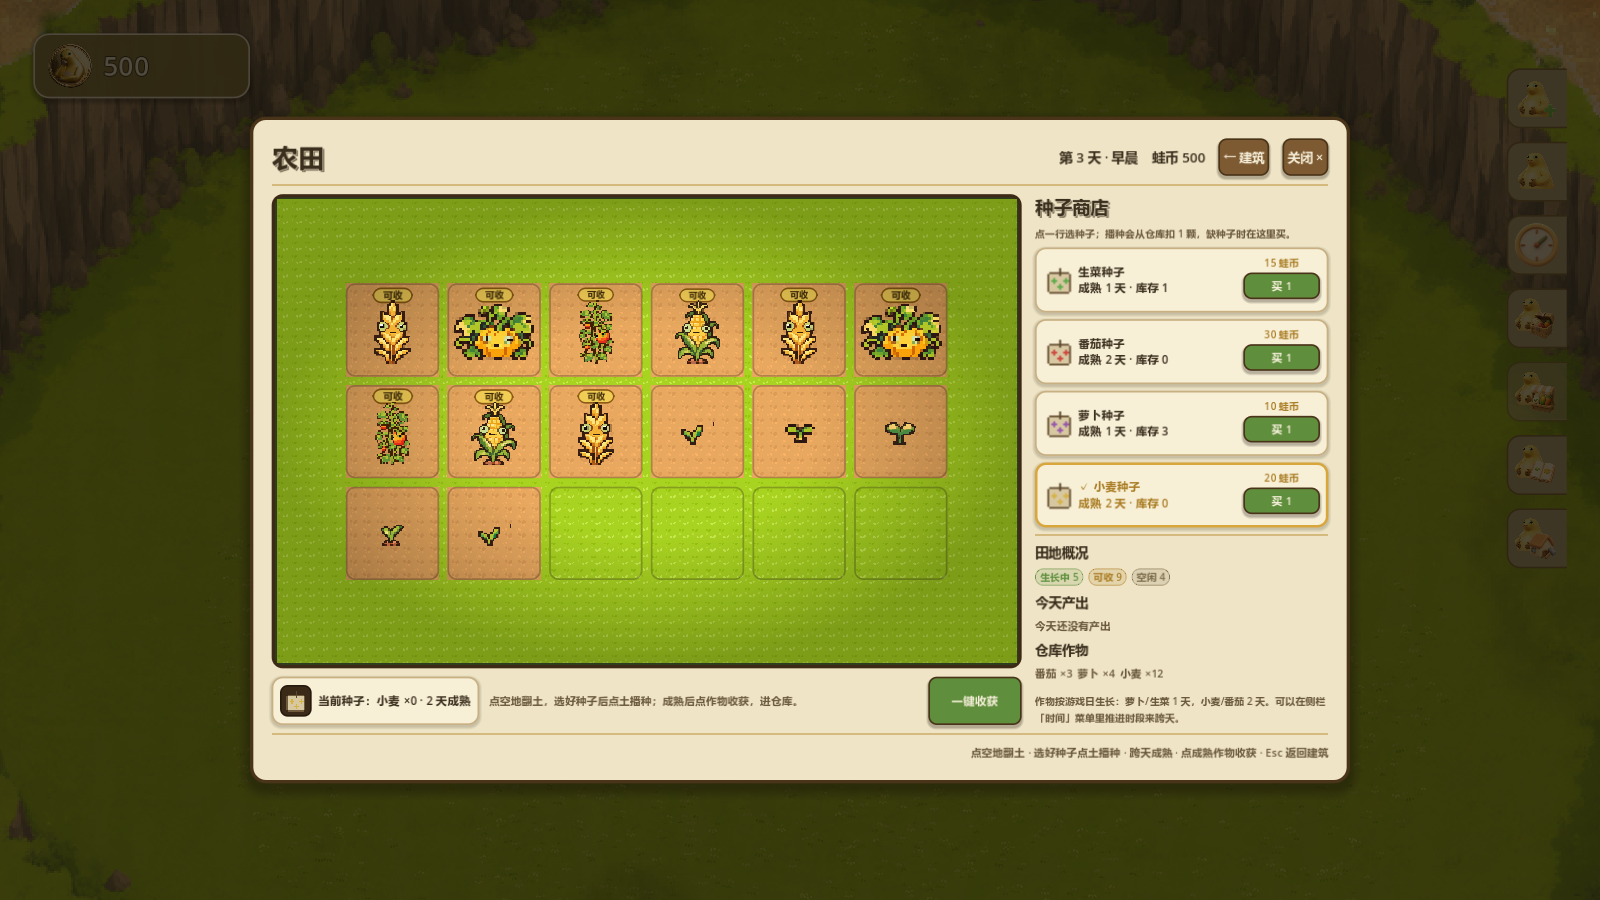
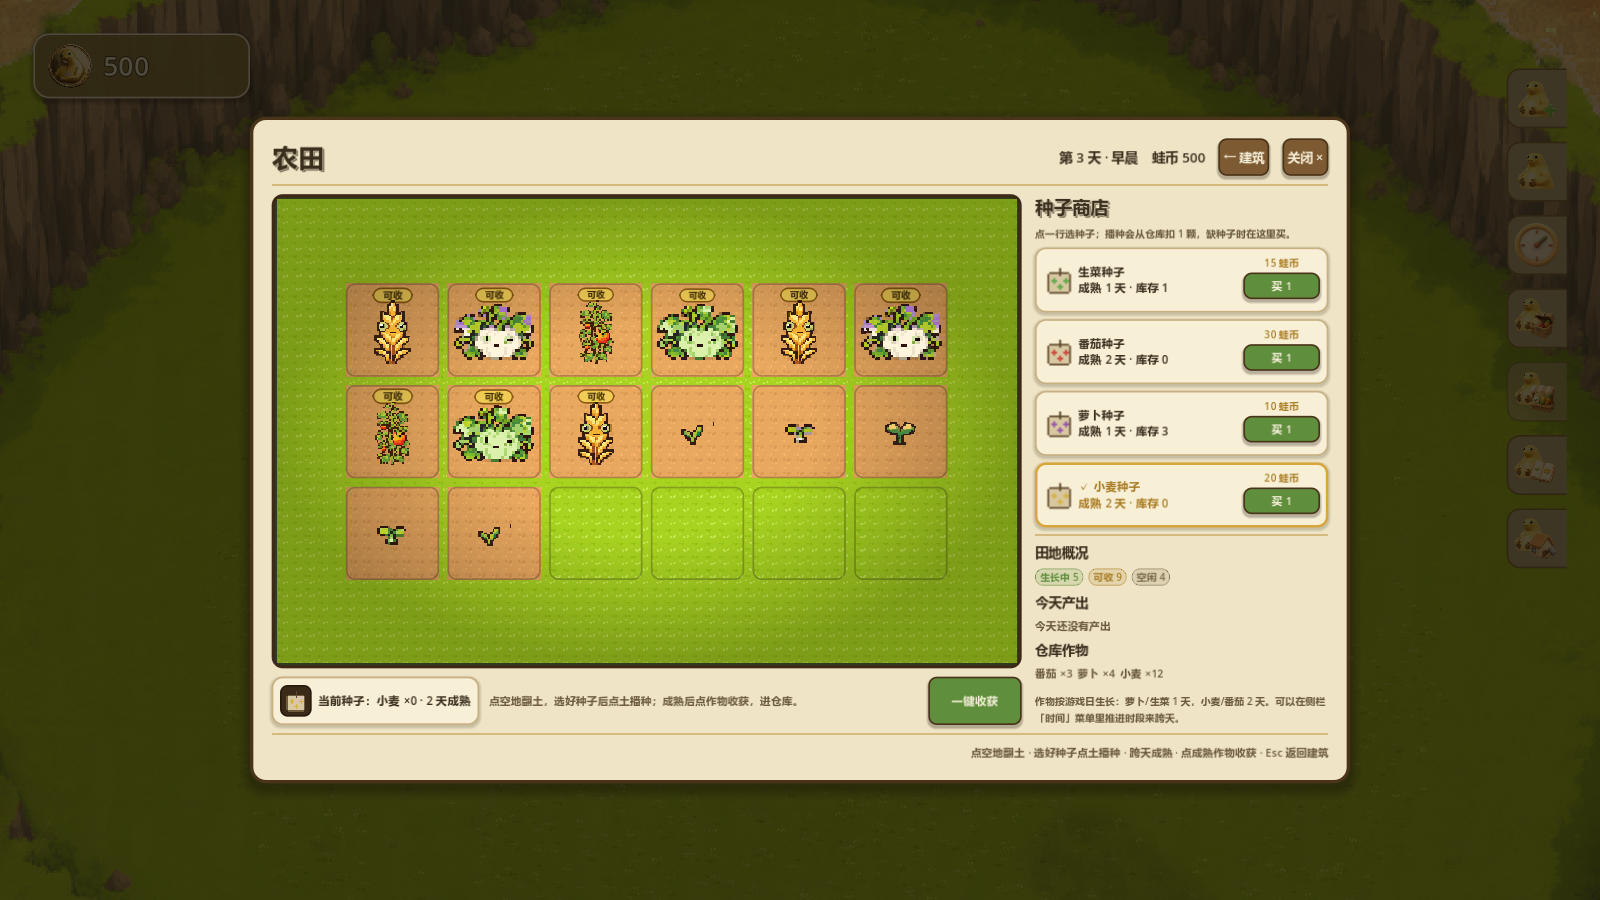
修正生菜/萝卜素材：不再拿玉米和南瓜植株冒充
项目原有 assets/plants 只有玉米、南瓜、番茄、小麦四种植株，之前生菜借用玉米、萝卜借用南瓜并靠 tint 区分，看起来仍然是玉米/南瓜。现以南瓜植株为基形重绘 4 帧新素材：生菜=浅绿菜心+宽叶（assets/plants/lettuce.png），萝卜=奶白根+紫顶（assets/plants/turnip.png），并同步重绘 64x64 物品图标 turnip.png/lettuce.png，data/crops 与 data/items 引用改为新素材、去掉 tint。素材来源与替换说明写入 docs/建筑系统-农田与鸡舍.md。

回归：buildings_smoke 64 项、drag_care_smoke 55 项、cooking_smoke 38 项全 PASS；Godot import 正常生成新 PNG 的 .import。农场页已重新截图核对四种作物外观。

diff --git a/docs/建筑系统-农田与鸡舍.md b/docs/建筑系统-农田与鸡舍.md
@@ -41,7 +41,11 @@
 - 未翻土地块只画很淡的格子描边，翻土后才铺土，避免"一整块深色底板把田分成九宫格"的塑料感。
 - 田地周围撒了草簇装饰、整体加暗角；界面按钮/卡片统一为暖纸色 + 深木描边的游戏 UI 样式。
 
-作物配置在 `data/crops/*.tres`（`CropData` 资源），加作物只加资源文件：
+作物配置在 `data/crops/*.tres`（`CropData` 资源），加作物只加资源文件。
+> 素材说明：项目原有 `assets/plants/` 只有玉米、南瓜、番茄、小麦四种植株。生菜和萝卜的植株
+> （`assets/plants/lettuce.png` / `turnip.png`，32×64×4 帧）是以南瓜植株为基形重绘配色得到的
+> （生菜=浅绿菜心+宽叶；萝卜=奶白根+紫顶），物品图标 `assets/icons/items/lettuce.png` / `turnip.png`
+> 同样重绘。以后美术有正式素材，直接替换 `data/crops` 里的 `plant_texture` 引用即可。
 
 | 作物 | 种子 | 产物 | 成熟天数 | 收获数量 | 种子价格 |
 | --- | --- | --- | ---: | --- | ---: |
